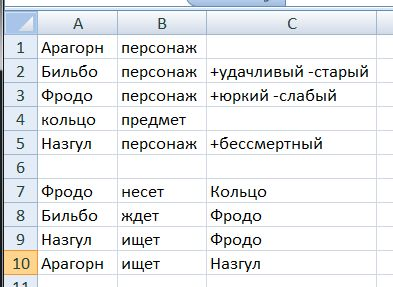
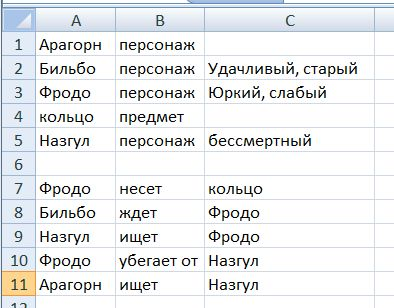
Added export to JSON and yEd. Added extra large canvas checkbox. Minor fixes.

diff --git a/cogs/data.js b/cogs/data.js
@@ -40,6 +40,7 @@ var charExample = `Арагорн	персонаж
 var edgesExample = `Фродо	несет	Кольцо
 Бильбо	ждет	Фродо
 Назгул	ищет	Фродо
+Фродо	убегает от	Назгул
 Арагорн	ищет	Назгул`;
 
 var snFocusOptions = {
@@ -53,3 +54,168 @@ var snFocusOptions = {
         easingFunction: 'easeInOutQuad'
     }
 };
+
+var gmlBase = `<?xml version="1.0" encoding="UTF-8" standalone="no"?>
+<graphml xmlns="http://graphml.graphdrawing.org/xmlns" xmlns:java="http://www.yworks.com/xml/yfiles-common/1.0/java" xmlns:sys="http://www.yworks.com/xml/yfiles-common/markup/primitives/2.0" xmlns:x="http://www.yworks.com/xml/yfiles-common/markup/2.0" xmlns:xsi="http://www.w3.org/2001/XMLSchema-instance" xmlns:y="http://www.yworks.com/xml/graphml" xmlns:yed="http://www.yworks.com/xml/yed/3" xsi:schemaLocation="http://graphml.graphdrawing.org/xmlns http://www.yworks.com/xml/schema/graphml/1.1/ygraphml.xsd">
+  <!--Created by yEd 3.15.0.2-->
+  <key attr.name="Description" attr.type="string" for="graph" id="d0"/>
+  <key for="port" id="d1" yfiles.type="portgraphics"/>
+  <key for="port" id="d2" yfiles.type="portgeometry"/>
+  <key for="port" id="d3" yfiles.type="portuserdata"/>
+  <key attr.name="url" attr.type="string" for="node" id="d4"/>
+  <key attr.name="description" attr.type="string" for="node" id="d5"/>
+  <key for="node" id="d6" yfiles.type="nodegraphics"/>
+  <key for="graphml" id="d7" yfiles.type="resources"/>
+  <key attr.name="url" attr.type="string" for="edge" id="d8"/>
+  <key attr.name="description" attr.type="string" for="edge" id="d9"/>
+  <key for="edge" id="d10" yfiles.type="edgegraphics"/>
+  <graph edgedefault="directed" id="G">
+    <data key="d0"/>
+    {0}
+    {1}
+  </graph>
+  <data key="d7">
+    <y:Resources/>
+  </data>
+</graphml>`;
+
+var nodeTmpl = `<node id="{0}">
+      <data key="d5"/>
+      <data key="d6">
+        <y:ShapeNode>
+          <y:Geometry height="45.0" width="151.0" x="94.0" y="152.75"/>
+          <y:Fill color="{2}" transparent="false"/>
+          <y:BorderStyle color="{3}" type="line" width="1.0"/>
+          <y:NodeLabel alignment="center" autoSizePolicy="content" fontFamily="Dialog" fontSize="12" fontStyle="plain" hasBackgroundColor="false" hasLineColor="false" height="18.701171875" modelName="custom" textColor="#000000" visible="true" width="35.8515625" x="57.57421875" y="13.1494140625">{1}<y:LabelModel>
+              <y:SmartNodeLabelModel distance="4.0"/>
+            </y:LabelModel>
+            <y:ModelParameter>
+              <y:SmartNodeLabelModelParameter labelRatioX="0.0" labelRatioY="0.0" nodeRatioX="0.0" nodeRatioY="0.0" offsetX="0.0" offsetY="0.0" upX="0.0" upY="-1.0"/>
+            </y:ModelParameter>
+          </y:NodeLabel>
+          <y:Shape type="roundrectangle"/>
+        </y:ShapeNode>
+      </data>
+    </node>`;
+    
+var edgeTmpl = `<edge id="{0}" source="{2}" target="{3}">
+      <data key="d9"/>
+      <data key="d10">
+        <y:ArcEdge>
+          <y:Path sx="0.0" sy="0.0" tx="0.0" ty="0.0">
+            <y:Point x="346.6875" y="333.375"/>
+          </y:Path>
+          <y:LineStyle color="#000000" type="line" width="1.0"/>
+          <y:Arrows source="none" target="standard"/>
+          <y:EdgeLabel alignment="center" configuration="AutoFlippingLabel" distance="2.0" fontFamily="Dialog" fontSize="12" fontStyle="plain" hasBackgroundColor="false" hasLineColor="false" height="18.701171875" modelName="custom" preferredPlacement="anywhere" ratio="0.5" textColor="#000000" visible="true" width="41.30078125" x="-234.82116743359467" y="-7.955110597360772">{1}<y:LabelModel>
+              <y:SmartEdgeLabelModel autoRotationEnabled="false" defaultAngle="0.0" defaultDistance="10.0"/>
+            </y:LabelModel>
+            <y:ModelParameter>
+              <y:SmartEdgeLabelModelParameter angle="0.0" distance="30.0" distanceToCenter="true" position="center" ratio="0.189477660359121" segment="-1"/>
+            </y:ModelParameter>
+            <y:PreferredPlacementDescriptor angle="0.0" angleOffsetOnRightSide="0" angleReference="absolute" angleRotationOnRightSide="co" distance="-1.0" frozen="true" placement="anywhere" side="anywhere" sideReference="relative_to_edge_flow"/>
+          </y:EdgeLabel>
+          <y:Arc height="106.20632934570312" ratio="1.0" type="fixedRatio"/>
+        </y:ArcEdge>
+      </data>
+    </edge>`;
+
+var colorPalette = [
+{color: {border: "#2B7CE9", background: "#97C2FC", highlight: {border: "#2B7CE9", background: "#D2E5FF"},
+          hover: {border: "#2B7CE9", background: "#D2E5FF"}}}, // 0: blue
+{color: {border: "#FFA500", background: "#FFFF00", highlight: {border: "#FFA500", background: "#FFFFA3"},
+          hover: {border: "#FFA500", background: "#FFFFA3"}}}, // 1: yellow
+  {
+      color: {
+          border: '#FA0A10', background: '#FB7E81', highlight: { border: '#FA0A10', background: '#FFAFB1' }, hover: { border: '#FA0A10', background: '#FFAFB1' }
+      }
+  }, // 2: red
+  {
+      color: {
+          border: '#41A906', background: '#7BE141', highlight: { border: '#41A906', background: '#A1EC76' }, hover: { border: '#41A906', background: '#A1EC76' }
+      }
+  }, // 3: green
+  {
+      color: {
+          border: '#E129F0', background: '#EB7DF4', highlight: { border: '#E129F0', background: '#F0B3F5' }, hover: { border: '#E129F0', background: '#F0B3F5' }
+      }
+  }, // 4: magenta
+  {
+      color: {
+          border: '#7C29F0', background: '#AD85E4', highlight: { border: '#7C29F0', background: '#D3BDF0' }, hover: { border: '#7C29F0', background: '#D3BDF0' }
+      }
+  }, // 5: purple
+  {
+      color: {
+          border: '#C37F00', background: '#FFA807', highlight: { border: '#C37F00', background: '#FFCA66' }, hover: { border: '#C37F00', background: '#FFCA66' }
+      }
+  }, // 6: orange
+  {
+      color: {
+          border: '#4220FB', background: '#6E6EFD', highlight: { border: '#4220FB', background: '#9B9BFD' }, hover: { border: '#4220FB', background: '#9B9BFD' }
+      }
+  }, // 7: darkblue
+  {
+      color: {
+          border: '#FD5A77', background: '#FFC0CB', highlight: { border: '#FD5A77', background: '#FFD1D9' }, hover: { border: '#FD5A77', background: '#FFD1D9' }
+      }
+  }, // 8: pink
+  {
+      color: {
+          border: '#4AD63A', background: '#C2FABC', highlight: { border: '#4AD63A', background: '#E6FFE3' }, hover: { border: '#4AD63A', background: '#E6FFE3' }
+      }
+  }, // 9: mint
+
+  {
+      color: {
+          border: '#990000', background: '#EE0000', highlight: { border: '#BB0000', background: '#FF3333' }, hover: { border: '#BB0000', background: '#FF3333' }
+      }
+  }, // 10:bright red
+
+  {
+      color: {
+          border: '#FF6000', background: '#FF6000', highlight: { border: '#FF6000', background: '#FF6000' }, hover: { border: '#FF6000', background: '#FF6000' }
+      }
+  }, // 12: real orange
+  {
+      color: {
+          border: '#97C2FC', background: '#2B7CE9', highlight: { border: '#D2E5FF', background: '#2B7CE9' }, hover: { border: '#D2E5FF', background: '#2B7CE9' }
+      }
+  }, // 13: blue
+  {
+      color: {
+          border: '#399605', background: '#255C03', highlight: { border: '#399605', background: '#255C03' }, hover: { border: '#399605', background: '#255C03' }
+      }
+  }, // 14: green
+  {
+      color: {
+          border: '#B70054', background: '#FF007E', highlight: { border: '#B70054', background: '#FF007E' }, hover: { border: '#B70054', background: '#FF007E' }
+      }
+  }, // 15: magenta
+  {
+      color: {
+          border: '#AD85E4', background: '#7C29F0', highlight: { border: '#D3BDF0', background: '#7C29F0' }, hover: { border: '#D3BDF0', background: '#7C29F0' }
+      }
+  }, // 16: purple
+  {
+      color: {
+          border: '#4557FA', background: '#000EA1', highlight: { border: '#6E6EFD', background: '#000EA1' }, hover: { border: '#6E6EFD', background: '#000EA1' }
+      }
+  }, // 17: darkblue
+  {
+      color: {
+          border: '#FFC0CB', background: '#FD5A77', highlight: { border: '#FFD1D9', background: '#FD5A77' }, hover: { border: '#FFD1D9', background: '#FD5A77' }
+      }
+  }, // 18: pink
+  {
+      color: {
+          border: '#C2FABC', background: '#74D66A', highlight: { border: '#E6FFE3', background: '#74D66A' }, hover: { border: '#E6FFE3', background: '#74D66A' }
+      }
+  }, // 19: mint
+
+  {
+      color: {
+          border: '#EE0000', background: '#990000', highlight: { border: '#FF3333', background: '#BB0000' }, hover: { border: '#FF3333', background: '#BB0000' }
+      }
+  } // 20:bright red
+];

diff --git a/cogs/main.js b/cogs/main.js
@@ -20,6 +20,8 @@ function init(){
   document.querySelector('.draw-button').addEventListener('click', draw);
   document.querySelector('.get-image-button').addEventListener('click', getImage);
   document.querySelector('.download-button').addEventListener('click', downloadCsv);
+  document.querySelector('.download-json-button').addEventListener('click', downloadJSON);
+  document.querySelector('.download-graphml-button').addEventListener('click', downloadYED);
   document.querySelector('.clear-button').addEventListener('click', clearNetwork);
   var closeBtn = addEl(addClasses(makeEl('button'), ['btn','btn-default']),makeText('Закрыть'));
   
@@ -64,13 +66,18 @@ function init(){
     })
   });
   
-  queryEl(`${root}.show-notes-checkbox`).checked = true;
+  queryEl(`${root}.show-notes-checkbox`).checked = false;
   listen(queryEl(`${root}.show-notes-checkbox`), 'change', draw);
   
   listen(document, 'keyup', function(e) {
     if (e.keyCode == 27) { // escape key maps to keycode `27`
       queryEls(`${root}.hidable-popup`).forEach(el => addClass(el, 'hidden'));
     }
+  });
+  
+  queryEl(`${root}.big-picture-checkbox`).checked = false;
+  listen(queryEl(`${root}.big-picture-checkbox`), 'change', (event) => {
+    setClassByCondition(queryEl(`${root}#mynetwork > div`),'big-picture',event.target.checked);
   });
   
   state.nodesDataset.on('*', () => {
@@ -82,6 +89,11 @@ function init(){
   });
   
   draw();
+}
+
+function draw(){
+  parseData();
+  drawNetwork();
 }
 
 // create a network
@@ -150,7 +162,10 @@ function drawNetwork() {
       stabilization: false
     },
     "edges": {
-      "smooth": false
+      "smooth": {
+        "type": "discrete",
+        "forceDirection": "none"
+      }
     },
     configure: {
       filter:function (option, path) {
@@ -275,10 +290,7 @@ function parseData(){
   state.edgesDataset.add(edges);
 }
 
-function draw(){
-  parseData();
-  drawNetwork();
-}
+
 
 function getImage(event){
   var canvas = document.querySelector("canvas");
@@ -342,9 +354,51 @@ function downloadCsv() {
     var arr = state.nodesDataset.map((node) => [node.name, node.group, node.notes]);
     var arr2 = state.edgesDataset.map((edge) => [state.nodesDataset.get(edge.from).name, edge.label, 
       state.nodesDataset.get(edge.to).name]);
-
-    arr2d2Csv(arr.concat(arr2), 'cogs.csv');
+      
+    arr2d2Csv(arr.concat([['']]).concat(arr2), 'cogs.csv');
 }
+
+function downloadJSON() {
+  var arr = state.nodesDataset.map((node) => [node.name, node.group, node.notes]);
+  var arr2 = state.edgesDataset.map((edge) => [state.nodesDataset.get(edge.from).name, edge.label, 
+    state.nodesDataset.get(edge.to).name]);
+    
+  const out = new Blob([JSON.stringify({nodes: arr, edges: arr2})], {
+      type: 'text/csv;charset=utf-8;'
+  });
+  saveAs(out, 'cogs.json');
+}
+
+function downloadYED() {
+  var arr = state.nodesDataset.map((node) => [node.name, node.group, node.notes]);
+  var arr2 = state.edgesDataset.map((edge) => [state.nodesDataset.get(edge.from).name, edge.label, 
+    state.nodesDataset.get(edge.to).name]);
+  
+  var groups = {};
+  var index = 1;
+  state.nodesDataset.map(node => {
+    if(groups[node.group] === undefined){
+      groups[node.group] = index;
+      index++;
+    }
+  });
+    
+  var nodes = state.nodesDataset.map(node => {
+    var colors = colorPalette[groups[node.group]-1].color;
+    return CU.strFormat(nodeTmpl, [node.id, node.name, colors.background, colors.border]);
+  }).join('\n');
+  
+  var edges = state.edgesDataset.map(edge => {
+    return CU.strFormat(edgeTmpl, [edge.id, edge.label, edge.from, edge.to]);
+  }).join('\n');
+  const out = new Blob([CU.strFormat(gmlBase, [nodes, edges])], {
+      type: 'text/xml;charset=utf-8;'
+  });
+  saveAs(out, 'cogs.graphml');
+}
+
+
+
 
 function preprocessCsvStr(str) {
     if (!(typeof str === 'string' || str instanceof String)) {

diff --git a/cogs/cogs.html b/cogs/cogs.html
@@ -40,7 +40,7 @@
               <p>Заполните таблицу в эксель как на <a data-toggle="collapse" href="#example-img">картинке</a>.</p>
               <img class="collapse" id="example-img" src="excelExample.jpg" style="width: 100%;">
             
-              <p>Разверните панель Данные.</p>
+              <p>Разверните панель <code>Данные</code>.</p>
               <p>Скопируйте из Excel список узлов вида "название тип заметка".</p>
               <p>Скопируйте из Excel список связей вида "узел1 действие узел2".</p>
               <p>Нажмите <code>Нарисовать</code>.</p>
@@ -122,7 +122,15 @@
           <div id="answerFour" class="panel-collapse collapse" role="tabpanel" aria-labelledby="">
             <div class="panel-body">
               <a href="#" class="link get-image-button btn btn-primary" style="" download="cogs.png">Скачать картинку (вызовет перерисовку картинки)</a><br>
+              <div class="form-check">
+                <label class="form-check-label">
+                  <input class="form-check-input big-picture-checkbox" type="checkbox" value="">
+                  Режим большого холста (3000px х 3000px)
+                </label>
+              </div>
               <button class="download-button btn btn-primary">Скачать таблицу для Excel (CSV)</button><br>
+              <button class="download-json-button btn btn-primary">Скачать JSON</button><br>
+              <button class="download-graphml-button btn btn-primary">Скачать граф yEd (graphml)</button><br>
             </div>
           </div>
         </div>
@@ -130,7 +138,7 @@
     
       <div class="panel panel-default">
         <div class="panel-body">
-          © <a href="http://trechkalov.com">NtsDK</a>, 2017 <a href="https://github.com/NtsDK">github</a>
+          © <a href="http://trechkalov.com">NtsDK</a>, 2017 <a href="https://github.com/NtsDK/NtsDK.github.io/tree/master/cogs">github</a>
         </div>
       </div>
     </div>

diff --git a/cogs/utils.js b/cogs/utils.js
@@ -36,6 +36,12 @@ CU.charOrdAFactory = CU.charOrdAFactoryBase('asc');
 
 CU.startsWith = (str1, str2) => str1.substring(0, str2.length) === str2;
 
+CU.strFormat = R.curry((str, vals) => str.replace(/\{\{|\}\}|\{(\d+)\}/g, (m, n) => {
+    if (m === '{{') { return '{'; }
+    if (m === '}}') { return '}'; }
+    return vals[n];
+}));
+
 function getL10n(key) {
     return L10n.getValue(key);
 }

diff --git a/cogs/style.css b/cogs/style.css
@@ -104,3 +104,18 @@ textarea{
 #faq .panel{
   margin-bottom: 0;
 }
+
+[role="tablist"] h5  > a{
+  display: inline-block;
+  width: 100%;
+}
+
+.big-picture {
+  overflow: auto !important;
+}
+
+.big-picture > canvas {
+  width: 3000px !important;
+  height: 3000px !important;
+}
+  
